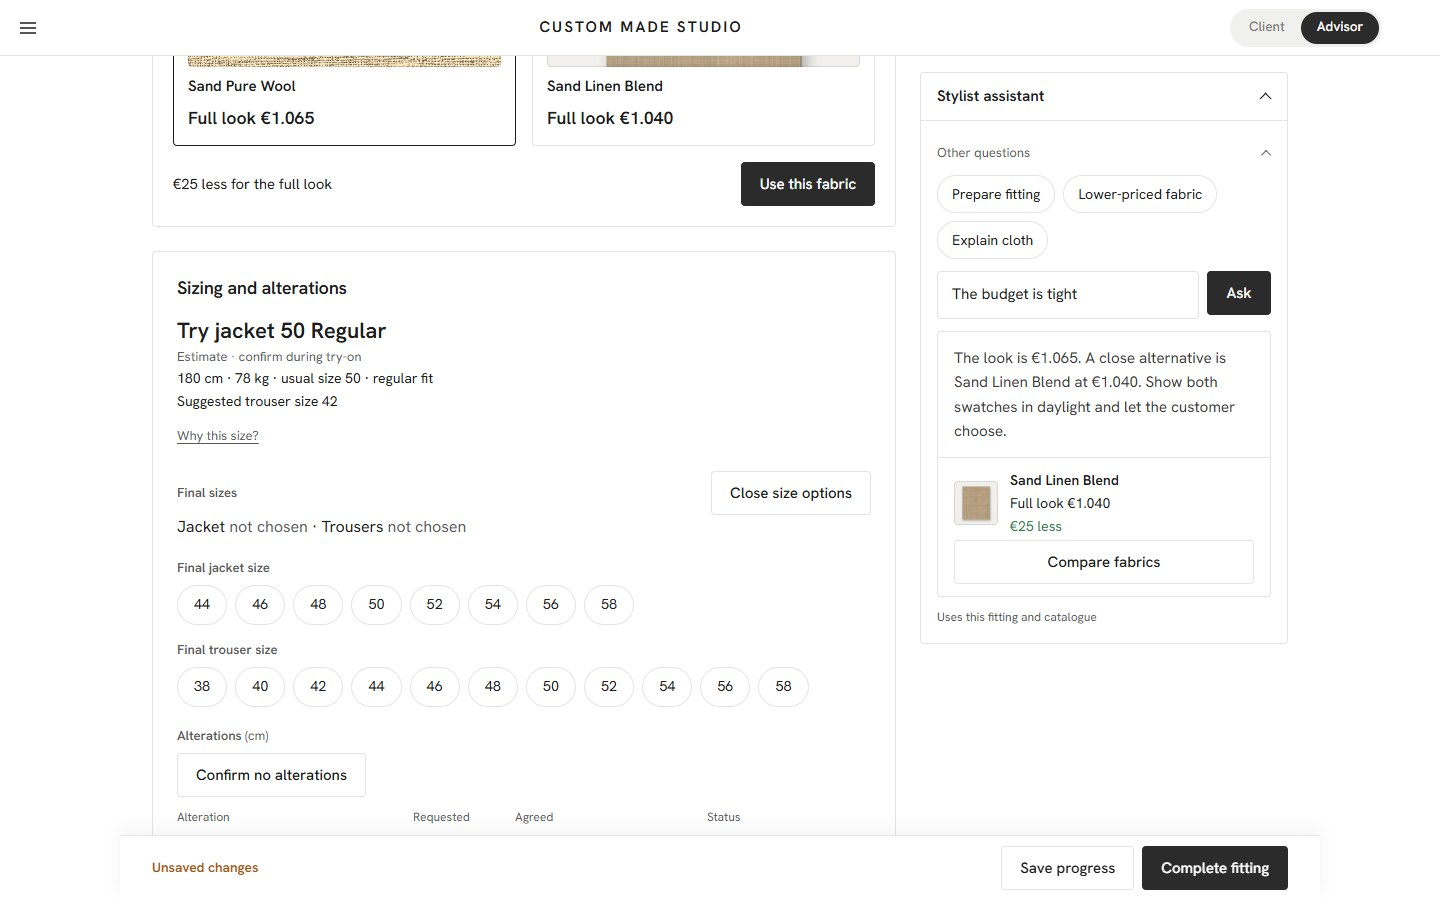
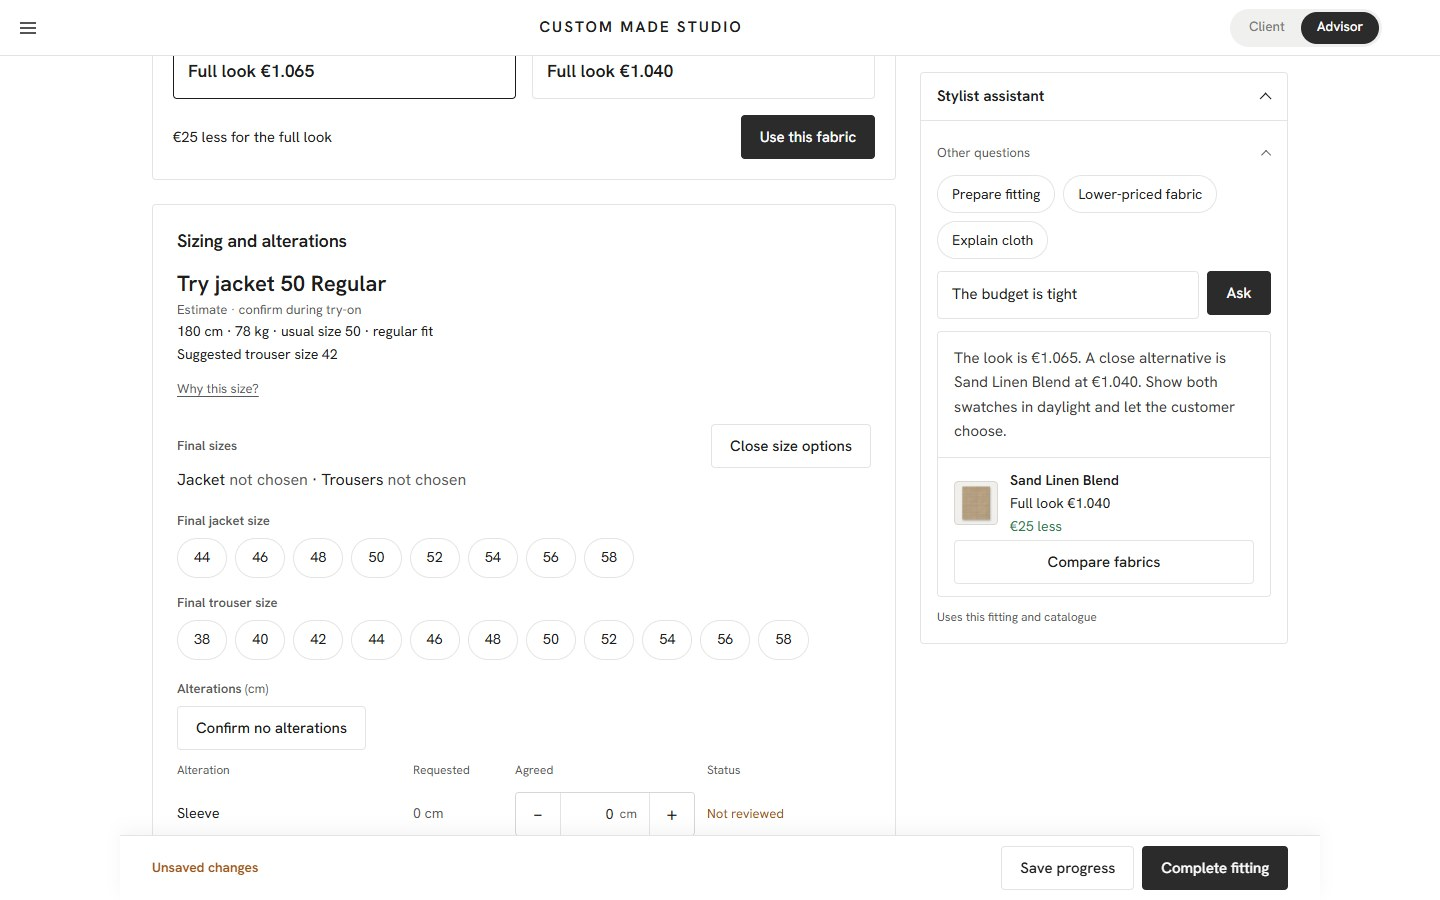
Fix phone Open fitting form, scroll padding for header and footer, robust email draft link; add end-to-end walkthrough test; 144 checks

diff --git a/js/app.js b/js/app.js
@@ -1156,7 +1156,7 @@
       if (st.nextStep) lines.push('Next step: ' + st.nextStep);
       if (st.followDate) lines.push('Follow-up date: ' + st.followDate);
       lines.push('', 'Estimated lead time: 2 to 3 weeks after an order is confirmed.', 'This is a consultation summary. No order has been placed.', '', 'Kind regards', 'Custom Made Studio');
-      window.location.href = 'mailto:' + encodeURIComponent(st.email || '') + '?subject=' + encodeURIComponent('Your fitting summary' + (st.code ? ' ' + st.code : '')) + '&body=' + encodeURIComponent(lines.join('\n'));
+      var mail = document.createElement('a'); mail.href = 'mailto:' + encodeURIComponent(st.email || '') + '?subject=' + encodeURIComponent('Your fitting summary' + (st.code ? ' ' + st.code : '')) + '&body=' + encodeURIComponent(lines.join('\n')); mail.rel = 'noopener'; document.body.appendChild(mail); mail.click(); document.body.removeChild(mail);
     };
     renderConsultation();
     /* the assistant stays open beside the fitting on wide screens, and folds away on narrow ones */

diff --git a/tests/stylist-test.html b/tests/stylist-test.html
@@ -351,6 +351,9 @@
     record('Close fabric panel', 'closes it and the link says Compare another fabric again', fabEl.open ? 'open' : 'closed', !fabEl.open && /Compare another fabric/.test(doc.getElementById('advCompareToggle').textContent));
     record('More menu', 'Print sheet, Email summary and Export log live in the toolbar menu only', doc.querySelectorAll('.adv-more').length + ' menus', doc.querySelectorAll('.adv-more').length === 1 && !!doc.querySelector('#advBarMore #advPrint') && !!doc.querySelector('#advBarMore #advEmail') && !!doc.querySelector('#advBarMore #advCsv'));
 
+    doc.getElementById('advLookupToggle').click(); await w(200);
+    record('Open fitting', 'shows the code form when asked for, at any screen width', win.getComputedStyle(doc.getElementById('openFitting')).display, !doc.getElementById('openFitting').hidden && win.getComputedStyle(doc.getElementById('openFitting')).display !== 'none');
+
     group('More Style me requests: new designs and cloths');
     await load();
     var briefs = [

diff --git a/css/style.css b/css/style.css
@@ -811,7 +811,6 @@ details.adv-card.adv-fabric,#advFabric{padding:0}
 @media (max-width:767px){
   .adv-mobile-only{display:revert}
   .adv-desktop-only{display:none}
-  .adv-bar:not(.is-lookup) .adv-open{display:none}
   .adv-bar-tools{width:100%}
   .adv-bar-tools .btn{flex:1 1 auto}
   .adv-summary{grid-template-columns:104px minmax(0,1fr);gap:12px}
@@ -1063,3 +1062,4 @@ body.adv #bag{display:none}
 .adv-opt .adv-swatch{background-size:cover!important;background-position:center!important;height:72px}
 .adv-try{margin-bottom:8px}
 .adv-save-help{font-size:12px;color:var(--muted)}
+html:has(body.adv){scroll-padding-top:72px;scroll-padding-bottom:110px}

diff --git a/tests/walkthrough.py b/tests/walkthrough.py
@@ -1,0 +1,91 @@
+# End-to-end walkthrough of one fitting on a phone-sized screen.
+# Needs: pip install playwright (plus a browser), and the app served at http://127.0.0.1:8801 (python -m http.server 8801).
+import re, urllib.parse
+from playwright.sync_api import sync_playwright
+BASE = ''  # output files (screenshot, sheet.pdf) land in the current folder
+URL = 'http://127.0.0.1:8801/index.html?intro=0&mode=advisor'
+res = []
+def ok(name, cond, extra=''):
+    res.append((name, bool(cond), extra)); print(('PASS ' if cond else 'FAIL ') + name, extra)
+with sync_playwright() as p:
+    b = p.chromium.launch(channel='msedge')
+    ctx = b.new_context(viewport={'width': 390, 'height': 844}); errs = []
+    pg = ctx.new_page(); pg.on('pageerror', lambda e: errs.append(str(e)))
+    pg.goto(URL); pg.wait_for_selector('.adv-ws'); pg.wait_for_timeout(600)
+    # 1 walk-in
+    pg.click('#advWalkToggle'); pg.fill('#walkName', 'Anna Berg'); pg.fill('#walkBudget', '1000')
+    pg.click('#walkForm button.btn'); pg.wait_for_url('**consult=*'); pg.wait_for_timeout(600)
+    code = re.search(r'consult=(CM-[A-Z0-9]+)', pg.url).group(1)
+    pg.locator('.mode button', has_text='Return to fitting').click(); pg.wait_for_selector('.adv-ws'); pg.wait_for_timeout(500)
+    ok('walk-in opens in advisor mode', pg.inner_text('.adv-name') == 'Anna Berg', code)
+    ok('walk-in measurements flagged', 'Provisional' in pg.inner_text('#advFit'))
+    # 2 brief + contact
+    pg.click('#advAddBrief'); pg.fill('#advBriefInput', 'Navy suit for interviews');
+    pg.click('#advOpenCust'); pg.fill('#contactEmail', 'anna@example.com'); pg.fill('#contactPhone', '+31 6 1234 5678'); pg.click('#contactForm button'); pg.wait_for_timeout(300)
+    # 3 fabric
+    pg.click('#advCompareToggle'); pg.fill('#altSearch', 'velvet'); pg.wait_for_timeout(300)
+    pg.keyboard.press('ArrowDown'); pg.keyboard.press('Enter'); pg.wait_for_timeout(300)
+    alt = pg.inner_text('#secondName'); pg.click('#applyAlt'); pg.wait_for_timeout(400)
+    ok('fabric applied', alt in pg.inner_text('#advLook'), alt)
+    # 4 sizes + alteration -1.5
+    if pg.locator('#advSizePick').is_hidden(): pg.click('#advSizeToggle')
+    pg.click('#advSize-50'); pg.click('#advPantsSize-42')
+    for _ in range(3): pg.locator('#advAdjs .adj >> nth=0').locator('button >> nth=0').click()
+    val = pg.locator('#advAdjs .adj >> nth=0').locator('input').input_value()
+    ok('alteration shows -1.5', val.replace('\u2212', '-') == '-1.5', val)
+    # stepper readable at 390
+    box = pg.locator('#advAdjs .adj >> nth=0').locator('.stepper').bounding_box(); ok('stepper at least 176px wide on phone', box['width'] >= 170, str(round(box['width'])))
+    # 5 try complete with alterations unreviewed
+    pg.click('#advSave'); pg.wait_for_timeout(400)
+    ok('missing alterations flagged', not pg.locator('#advAltError').is_hidden() and 'need' in pg.inner_text('#advStatus'), pg.inner_text('#advStatus'))
+    pg.click('#advStatus button'); pg.wait_for_timeout(300)
+    top = pg.evaluate("Math.round(document.getElementById('advAlts').getBoundingClientRect().top)")
+    ok('attention link scrolls below the header', 56 <= top <= 140, str(top))
+    pg.click('#advConfirmAlts'); pg.wait_for_timeout(200)
+    pg.click('#advSave'); pg.wait_for_timeout(500)
+    ok('completed', 'Ready for order review' in pg.inner_text('.adv-state') and 'Saved at' in pg.inner_text('#advSaveState'), pg.inner_text('#advSaveState'))
+    pg.screenshot(path=BASE + 'w_phone_done.png')
+    # 6 email draft
+    hrefs = []
+    pg.evaluate("document.addEventListener('click', e => { const a = e.target.closest && e.target.closest('a[href^=\"mailto:\"]'); if (a) { window.__mail = a.href; e.preventDefault(); } }, true)")
+    pg.click('#advBarMore summary'); pg.click('#advEmail'); pg.wait_for_timeout(300)
+    mail = pg.evaluate("window.__mail || ''"); dec = urllib.parse.unquote(mail)
+    ok('email addressed to customer', mail.startswith('mailto:anna%40example.com') or mail.startswith('mailto:anna@example.com'), mail[:40])
+    ok('email has sizes, alteration, no order placed, no workroom notes', 'Jacket size: 50' in dec and 'Sleeve -1.5 cm' in dec.replace('\u2212', '-') and 'No order has been placed' in dec, dec[:0])
+    # 7 reload + reopen by code
+    pg.goto(URL); pg.wait_for_selector('.adv-ws'); pg.wait_for_timeout(500)
+    pg.click('#advLookupToggle'); pg.fill('#lookupCode', code); pg.click('#openFitting button[type=submit]'); pg.wait_for_timeout(500)
+    ok('reopened by code', pg.inner_text('.adv-name') == 'Anna Berg')
+    ok('brief persisted', 'Navy suit for interviews' in pg.inner_text('#advLook'))
+    ok('fabric persisted', alt in pg.inner_text('#advLook'), alt)
+    ok('sizes persisted', 'Jacket 50' in pg.inner_text('#advFinalLine').replace('\n', ' ') or '50' in pg.inner_text('#advFinalLine'), pg.inner_text('#advFinalLine'))
+    ok('alteration persisted', pg.locator('#advAdjs .adj >> nth=0').locator('input').input_value().replace('\u2212', '-') == '-1.5')
+    ok('contact persisted', 'anna@example.com' in pg.text_content('#advContact'))
+    ok('status persisted', 'Ready for order review' in pg.inner_text('.adv-state'))
+    ok('save state after reopen says this browser only', 'this browser only' in pg.inner_text('#advSaveState'), pg.inner_text('#advSaveState'))
+    # 8 edit -> unsaved -> switch guard keeps data
+    pg.fill('#advNotes', 'Right shoulder lower'); pg.wait_for_timeout(200)
+    ok('unsaved after edit', 'Unsaved changes' in pg.inner_text('#advSaveState'))
+    pg.click('#advLookupToggle'); pg.fill('#lookupCode', code); pg.click('#openFitting button[type=submit]'); pg.wait_for_timeout(400)
+    ok('switch prompt shown', pg.locator('#advSwitch').is_visible())
+    pg.click('#advSwitchKeep'); pg.wait_for_timeout(300)
+    ok('keep editing keeps the note', pg.input_value('#advNotes') == 'Right shoulder lower')
+    pg.click('#advDraft'); pg.wait_for_timeout(400)
+    ok('save progress updates state', 'Saved at' in pg.inner_text('#advSaveState'))
+    # 9 keyboard landscape: focused field not under the footer
+    pg.set_viewport_size({'width': 844, 'height': 390}); pg.wait_for_timeout(300)
+    pg.evaluate("window.scrollTo({top:0,behavior:'instant'})"); pg.focus('#advNotes'); pg.wait_for_timeout(900)
+    r = pg.evaluate("(() => { const n = document.getElementById('advNotes').getBoundingClientRect(), b = document.querySelector('.adv-actions').getBoundingClientRect(); return [Math.round(n.bottom), Math.round(b.top)]; })()")
+    ok('landscape: focused notes field sits above the footer and below the header', r[0] <= r[1] + 2, str(r))
+    pg.set_viewport_size({'width': 390, 'height': 844})
+    # 10 print as A4 PDF
+    pg3 = ctx.new_page(); pg3.goto(URL + '&x=1'); pg3.wait_for_selector('.adv-ws')
+    pg3.click('#advLookupToggle'); pg3.fill('#lookupCode', code); pg3.click('#openFitting button[type=submit]'); pg3.wait_for_timeout(500)
+    pdf = pg3.pdf(format='A4', print_background=True, margin={'top': '12mm', 'bottom': '12mm', 'left': '12mm', 'right': '12mm'})
+    open(BASE + 'sheet.pdf', 'wb').write(pdf)
+    pages = len(re.findall(rb'/Type\s*/Page[^s]', pdf)); ok('A4 sheet is 1-2 pages', 1 <= pages <= 2, str(pages))
+    txt = pdf.decode('latin-1')
+    ok('PDF made', len(pdf) > 5000, str(len(pdf)))
+    ok('console errors none', not errs, str(errs))
+    b.close()
+print('FAILS:', [r[0] for r in res if not r[1]])

diff --git a/README.md b/README.md
@@ -91,6 +91,8 @@ Useful links: `?mode=advisor` (opens the Style Advisor), `?tab=2` (steps 0 to 4)
 
 Everything you do is saved only in your own browser on that device. Prices, cloth names and availability are fictional demo values.
 
+Tests: open `tests/stylist-test.html` through the local server for the 144 in-browser checks. `tests/walkthrough.py` (needs Playwright) runs one full fitting on a phone-sized screen: walk-in, brief and contact, fabric change, sizes, a -1.5 cm alteration, completion, reload and reopen by code, the unsaved-changes guard, the email draft and an A4 print.
+
 ## One-file version
 
 `python tools/build_standalone.py . Custom-Made-Studio-standalone.html` writes a single HTML file with the styles, scripts and all images inside (about 4 MB). It opens straight from a file and can be sent by email. Images are shrunk for size.
